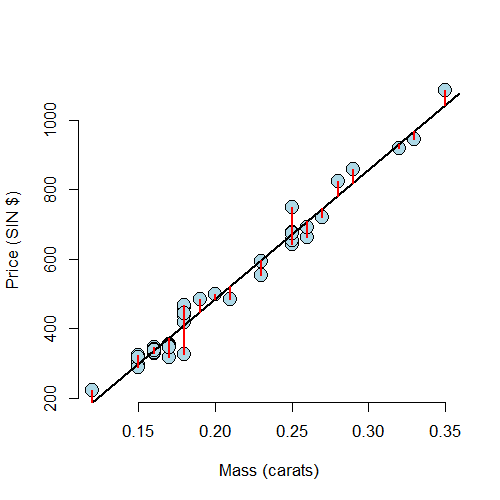
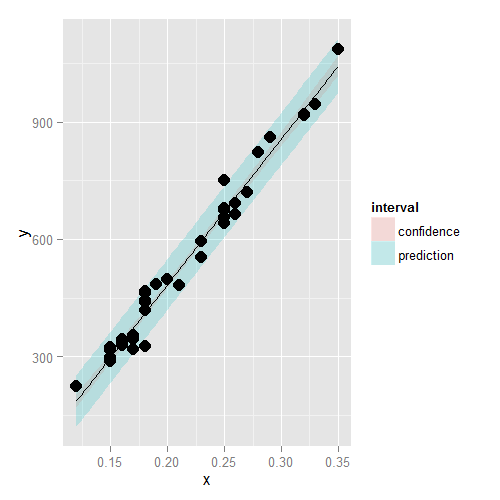
Finished initial draft of RM part 7 - Inference in Regression.

diff --git a/RM Week 2/RM_part_7_-_Inference_in_Regression.html b/RM Week 2/RM_part_7_-_Inference_in_Regression.html
@@ -84,6 +84,123 @@ Y_i = \beta_0 + \beta_1 X_i + \epsilon_i
 </ul>
 <hr />
 </div>
+<div id="review" class="section level2">
+<h2>Review</h2>
+<ul>
+<li>Statistics like <span class="math inline">\(\frac{\hat\theta - \theta}{\hat\sigma_{\hat\theta}}\)</span> often have the following properties
+<ol style="list-style-type: decimal">
+<li>Is normally distributed and has a finite sample Student’s T distribution if the variance is replaced with a sample estimate (under normality assumptions)</li>
+<li>Can be used to test <span class="math inline">\(H_0 : \theta = \theta_0\)</span> versus <span class="math inline">\(H_\alpha : \theta &gt;,&lt;,\ne \theta_0\)</span></li>
+<li>Can be used to create a confidence interval for <span class="math inline">\(\theta\)</span> via <span class="math inline">\(\hat\theta \pm Q_{1-\alpha/2} \hat\sigma_{\hat\theta}\)</span> where <span class="math inline">\(Q_{1-\alpha/2}\)</span> is the relevant quantile from either a normal or <span class="math inline">\(t\)</span> distribution</li>
+</ol></li>
+<li>In the case of regression with iid sampling assumptions and normal errors, our inferences will follow very similarily to what you saw in your inference class</li>
+<li>We won’t cover asymptotics for regression analysis, but suffice it to say that under assumptions on the ways in which the <span class="math inline">\(X\)</span> values are collected, the iid sampling model, and mean model, the normal results hold to create intervals and confidence intervals</li>
+</ul>
+<hr />
+</div>
+<div id="results" class="section level2">
+<h2>Results</h2>
+<ul>
+<li><span class="math inline">\(\sigma_{\hat\beta_1}^2 = Var\left(\hat\beta_1\right) = \sigma^2 / \sum_{i=1}^2\left(X_i - \bar X\right)^2\)</span></li>
+<li><span class="math inline">\(\sigma_{\hat\beta_0}^2 = Var\left(\hat\beta_0\right) = \left(\frac{1}{n} + \frac{X^{-2}}{\sum_{i=1}^n\left(X_i - \bar X\right)}\right) \sigma^2\)</span></li>
+<li>In practice, <span class="math inline">\(\sigma\)</span> is replaced by its estimate</li>
+<li>It’s probably not surprising that under iid Gaussian errors <span class="math display">\[
+\frac{\hat\beta_j - \beta_j}{\hat\sigma_{\hat\beta_j}}
+\]</span> follows a <span class="math inline">\(t\)</span> distribution with <span class="math inline">\(n - 2\)</span> degrees of freedom and a normal distribution for large <span class="math inline">\(n\)</span></li>
+<li>This can be used to create confidence intervals and perform hypothesis tests</li>
+</ul>
+<hr />
+</div>
+<div id="example-diamond-dataset" class="section level2">
+<h2>Example Diamond Dataset</h2>
+<pre class="r"><code>library(UsingR)
+data(diamond)
+y &lt;- diamond$price
+x &lt;- diamond$carat
+n &lt;- length(y)
+beta1 &lt;- cor(y,x) * sd(y)/sd(x)
+beta0 &lt;- mean(y) - beta1 * mean(x)
+e &lt;- y - beta0 - beta1 * x
+sigma &lt;- sqrt(sum(e^2) / (n-2))
+ssx &lt;- sum((x - mean(x))^2)
+seBeta0 &lt;- (1 / n + mean(x)^2 / ssx) ^ .5 * sigma
+seBeta1 &lt;- sigma / sqrt(ssx)
+tBeta0 &lt;- beta0 / seBeta0
+tBeta1 &lt;- beta1 / seBeta1
+pBeta0 &lt;- 2 * pt(abs(tBeta0), df=n - 2, lower.tail=F)
+pBeta1 &lt;- 2 * pt(abs(tBeta1), df=n - 2, lower.tail=F)
+coefTable &lt;- rbind(c(beta0, seBeta0, tBeta0, pBeta0),
+                   c(beta1, seBeta1, tBeta1, pBeta1))
+colnames(coefTable) &lt;- c(&quot;Estimate&quot;, &quot;Std. Error&quot;, &quot;t value&quot;, &quot;P(&gt;|t|)&quot;)
+rownames(coefTable) &lt;- c(&quot;(Intercept)&quot;, &quot;x&quot;)
+coefTable</code></pre>
+<pre><code>             Estimate Std. Error   t value      P(&gt;|t|)
+(Intercept) -259.6259   17.31886 -14.99094 2.523271e-19
+x           3721.0249   81.78588  45.49715 6.751260e-40</code></pre>
+<pre class="r"><code>fit &lt;- lm(y ~ x)
+summary(fit)$coefficients</code></pre>
+<pre><code>             Estimate Std. Error   t value     Pr(&gt;|t|)
+(Intercept) -259.6259   17.31886 -14.99094 2.523271e-19
+x           3721.0249   81.78588  45.49715 6.751260e-40</code></pre>
+<hr />
+</div>
+<div id="getting-a-confidence-interval" class="section level2">
+<h2>Getting a Confidence Interval</h2>
+<pre class="r"><code>sumCoef &lt;- summary(fit)$coefficients
+sumCoef[1,1] + c(-1,1) * qt(.975, df=fit$df) * sumCoef[1,2]</code></pre>
+<pre><code>[1] -294.4870 -224.7649</code></pre>
+<pre class="r"><code>(sumCoef[2,1] + c(-1,1) * qt(.975, df=fit$df) * sumCoef[2,2]) / 10</code></pre>
+<pre><code>[1] 355.6398 388.5651</code></pre>
+<p>With 95% confidence, we estimate that a 0.1 carat increase in diamond size results in a 355.6 to 388.6 increase in (Singapore) dollars</p>
+<hr />
+</div>
+<div id="prediction-of-outcomes" class="section level2">
+<h2>Prediction of Outcomes</h2>
+<ul>
+<li>Consider predicting <span class="math inline">\(Y\)</span> at a value of <span class="math inline">\(X\)</span>
+<ul>
+<li>Predicting the price of a diamond given a carat</li>
+<li>Predicting the height of a child given the height of the parents</li>
+</ul></li>
+<li>The obvious estimate for prediction at point <span class="math inline">\(x_0\)</span> is <span class="math display">\[
+\hat\beta_0 + \hat\beta_1 x_0
+\]</span></li>
+<li>A standard error is needed to create a prediction interval</li>
+<li>There’s a distinction between intervals for the regression line at point <span class="math inline">\(x_0\)</span> and the prediction of what a <span class="math inline">\(y\)</span> would be at point <span class="math inline">\(x_0\)</span></li>
+<li>Line at <span class="math inline">\(x_0\)</span> se, <span class="math inline">\(\hat\sigma \sqrt{\frac{1}{n} + \frac{\left(x_0 - \bar X\right)^2}{\sum_{i=1}^n \left(X_i - \bar X\right)^2}}\)</span></li>
+<li>Prediction interval se at <span class="math inline">\(x_0\)</span>, <span class="math inline">\(\hat\sigma \sqrt{1 + \frac{1}{n} + \frac{\left(x_0 - \bar X\right)^2}{\sum_{i=1}^n \left(X_i - \bar X\right)^2}}\)</span></li>
+</ul>
+<hr />
+</div>
+<div id="plotting-the-prediction-intervals" class="section level2">
+<h2>Plotting the Prediction Intervals</h2>
+<div class="rimage center">
[1 lines of base64/hex data omitted]
+</div>
+<hr />
+</div>
+<div id="discussion" class="section level2">
+<h2>Discussion</h2>
+<ul>
+<li>Both intervals have varying widths
+<ul>
+<li>Least width at the means of the <span class="math inline">\(x\)</span>s</li>
+</ul></li>
+<li>We are quite confident in the regression line, so that interval is very narrow
+<ul>
+<li>If we knew <span class="math inline">\(\beta_0\)</span> and <span class="math inline">\(\beta_1\)</span> this interval would have zero width</li>
+</ul></li>
+<li>The prediction interval must incorporate the variability in the data around the line
+<ul>
+<li>Even if we knew <span class="math inline">\(\beta_0\)</span> and <span class="math inline">\(\beta_1\)</span> this interval would still have width</li>
+</ul></li>
+</ul>
+<hr />
+</div>
+<div id="in-r" class="section level2">
+<h2>In R</h2>
+<p>This content is missing from the available slides</p>
+</div>
 
 
 </div>

diff --git a/RM Week 2/RM_part_7_-_Inference_in_Regression.md b/RM Week 2/RM_part_7_-_Inference_in_Regression.md
@@ -15,3 +15,135 @@ $$
 - $\hat\beta_1 = Cor\left(Y,X\right) \frac{Sd\left(Y\right)}{Sd\left(X\right)}$
 
 ---
+
+## Review
+
+- Statistics like $\frac{\hat\theta - \theta}{\hat\sigma_{\hat\theta}}$ often have the following properties
+    1. Is normally distributed and has a finite sample Student's T distribution if the variance is replaced with a sample estimate (under normality assumptions)
+    2. Can be used to test $H_0 : \theta = \theta_0$ versus $H_\alpha : \theta >,<,\ne \theta_0$
+    3. Can be used to create a confidence interval for $\theta$ via $\hat\theta \pm Q_{1-\alpha/2} \hat\sigma_{\hat\theta}$ where $Q_{1-\alpha/2}$ is the relevant quantile from either a normal or $t$ distribution
+- In the case of regression with iid sampling assumptions and normal errors, our inferences will follow very similarily to what you saw in your inference class
+- We won't cover asymptotics for regression analysis, but suffice it to say that under assumptions on the ways in which the $X$ values are collected, the iid sampling model, and mean model, the normal results hold to create intervals and confidence intervals
+
+---
+
+## Results
+
+- $\sigma_{\hat\beta_1}^2 = Var\left(\hat\beta_1\right) = \sigma^2 / \sum_{i=1}^2\left(X_i - \bar X\right)^2$
+- $\sigma_{\hat\beta_0}^2 = Var\left(\hat\beta_0\right) = \left(\frac{1}{n} + \frac{X^{-2}}{\sum_{i=1}^n\left(X_i - \bar X\right)}\right) \sigma^2$
+- In practice, $\sigma$ is replaced by its estimate
+- It's probably not surprising that under iid Gaussian errors
+$$
+\frac{\hat\beta_j - \beta_j}{\hat\sigma_{\hat\beta_j}}
+$$
+follows a $t$ distribution with $n - 2$ degrees of freedom and a normal distribution for large $n$
+- This can be used to create confidence intervals and perform hypothesis tests
+
+---
+
+## Example Diamond Dataset
+
+
+```r
+library(UsingR)
+data(diamond)
+y <- diamond$price
+x <- diamond$carat
+n <- length(y)
+beta1 <- cor(y,x) * sd(y)/sd(x)
+beta0 <- mean(y) - beta1 * mean(x)
+e <- y - beta0 - beta1 * x
+sigma <- sqrt(sum(e^2) / (n-2))
+ssx <- sum((x - mean(x))^2)
+seBeta0 <- (1 / n + mean(x)^2 / ssx) ^ .5 * sigma
+seBeta1 <- sigma / sqrt(ssx)
+tBeta0 <- beta0 / seBeta0
+tBeta1 <- beta1 / seBeta1
+pBeta0 <- 2 * pt(abs(tBeta0), df=n - 2, lower.tail=F)
+pBeta1 <- 2 * pt(abs(tBeta1), df=n - 2, lower.tail=F)
+coefTable <- rbind(c(beta0, seBeta0, tBeta0, pBeta0),
+                   c(beta1, seBeta1, tBeta1, pBeta1))
+colnames(coefTable) <- c("Estimate", "Std. Error", "t value", "P(>|t|)")
+rownames(coefTable) <- c("(Intercept)", "x")
+coefTable
+```
+
+```
+             Estimate Std. Error   t value      P(>|t|)
+(Intercept) -259.6259   17.31886 -14.99094 2.523271e-19
+x           3721.0249   81.78588  45.49715 6.751260e-40
+```
+
+```r
+fit <- lm(y ~ x)
+summary(fit)$coefficients
+```
+
+```
+             Estimate Std. Error   t value     Pr(>|t|)
+(Intercept) -259.6259   17.31886 -14.99094 2.523271e-19
+x           3721.0249   81.78588  45.49715 6.751260e-40
+```
+
+---
+
+## Getting a Confidence Interval
+
+
+```r
+sumCoef <- summary(fit)$coefficients
+sumCoef[1,1] + c(-1,1) * qt(.975, df=fit$df) * sumCoef[1,2]
+```
+
+```
+[1] -294.4870 -224.7649
+```
+
+```r
+(sumCoef[2,1] + c(-1,1) * qt(.975, df=fit$df) * sumCoef[2,2]) / 10
+```
+
+```
+[1] 355.6398 388.5651
+```
+
+With 95% confidence, we estimate that a 0.1 carat increase in diamond size results in a 355.6 to 388.6 increase in (Singapore) dollars
+
+---
+
+## Prediction of Outcomes
+
+- Consider predicting $Y$ at a value of $X$
+    - Predicting the price of a diamond given a carat
+    - Predicting the height of a child given the height of the parents
+- The obvious estimate for prediction at point $x_0$ is
+$$
+\hat\beta_0 + \hat\beta_1 x_0
+$$
+- A standard error is needed to create a prediction interval
+- There's a distinction between intervals for the regression line at point $x_0$ and the prediction of what a $y$ would be at point $x_0$
+- Line at $x_0$ se, $\hat\sigma \sqrt{\frac{1}{n} + \frac{\left(x_0 - \bar X\right)^2}{\sum_{i=1}^n \left(X_i - \bar X\right)^2}}$
+- Prediction interval se at $x_0$, $\hat\sigma \sqrt{1 + \frac{1}{n} + \frac{\left(x_0 - \bar X\right)^2}{\sum_{i=1}^n \left(X_i - \bar X\right)^2}}$
+
+---
+
+## Plotting the Prediction Intervals
+
+<div class="rimage center"><img src="fig/unnamed-chunk-3-1.png" title="" alt="" class="plot" /></div>
+
+---
+
+## Discussion
+
+- Both intervals have varying widths
+    - Least width at the means of the $x$s
+- We are quite confident in the regression line, so that interval is very narrow
+    - If we knew $\beta_0$ and $\beta_1$ this interval would have zero width
+- The prediction interval must incorporate the variability in the data around the line
+    - Even if we knew $\beta_0$ and $\beta_1$ this interval would still have width
+
+---
+
+## In R
+
+This content is missing from the available slides
